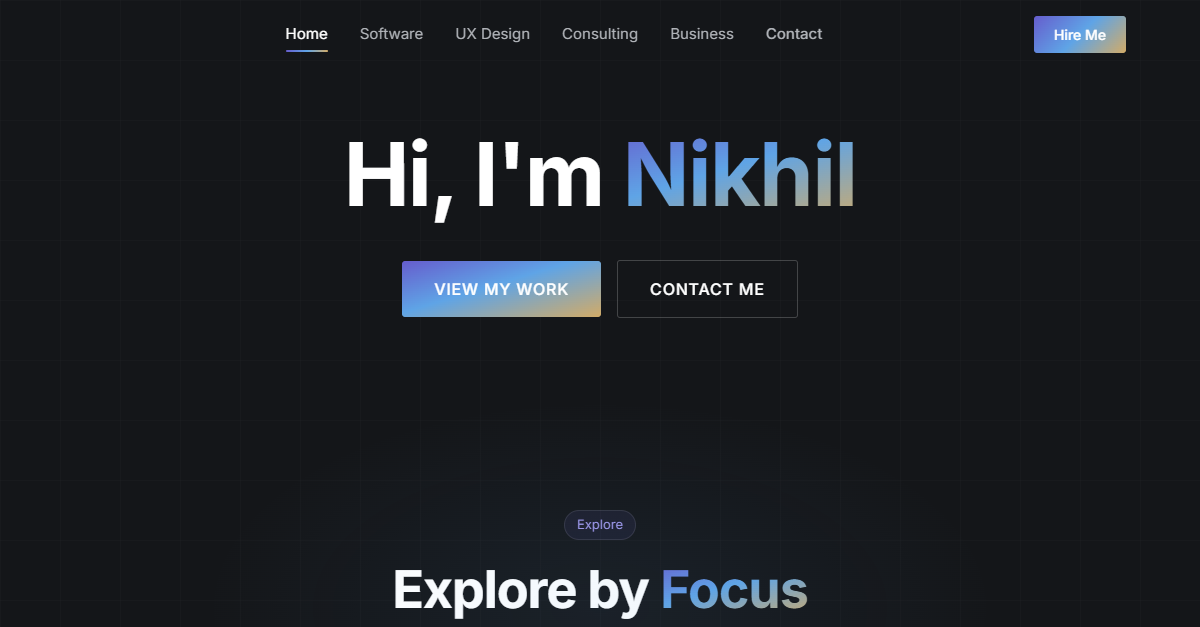
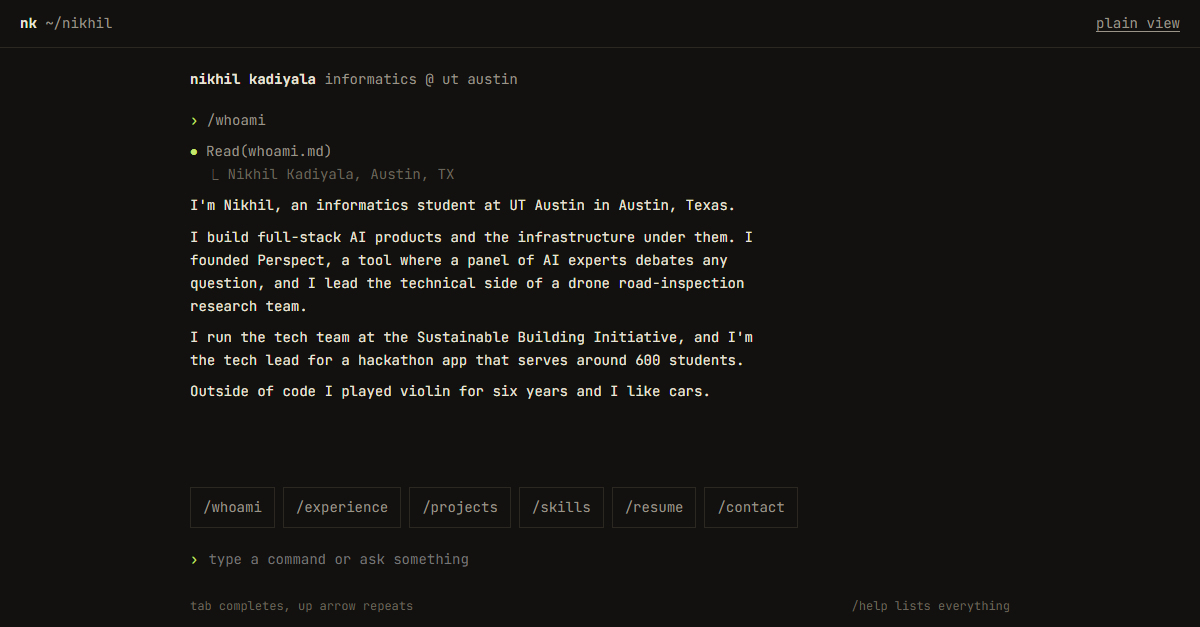
fix(site): raise text contrast and add robots and llms files

diff --git a/app/terminal/terminal.css b/app/terminal/terminal.css
@@ -7,8 +7,8 @@
   --surface: #1a1815;
   --line: #2b2822;
   --text: #e9e4d8;
-  --dim: #9a9488;
-  --faint: #6a655b;
+  --dim: #aaa498;
+  --faint: #8a857a;
   --accent: #c4e86b;
 
   background: var(--bg);
